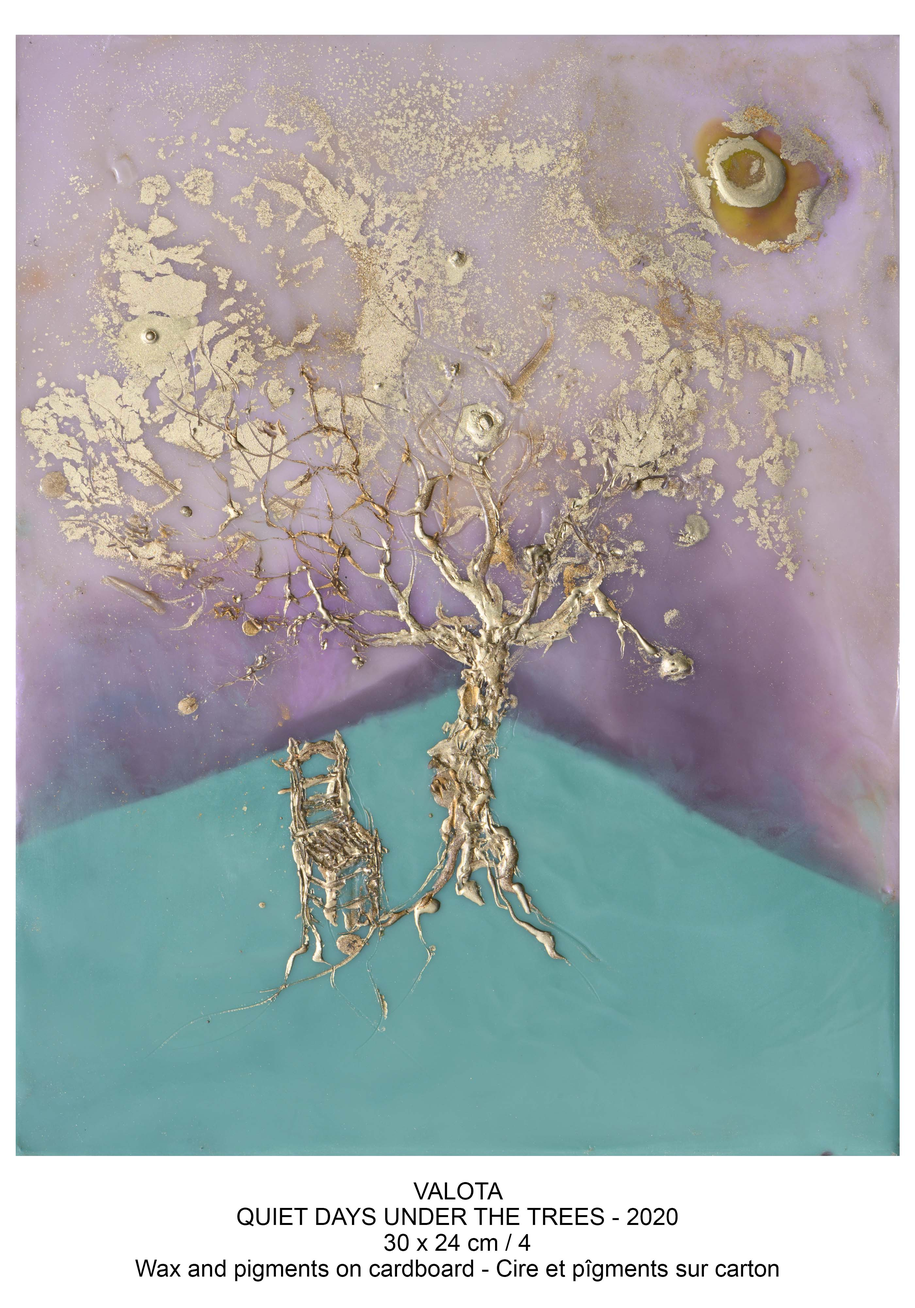
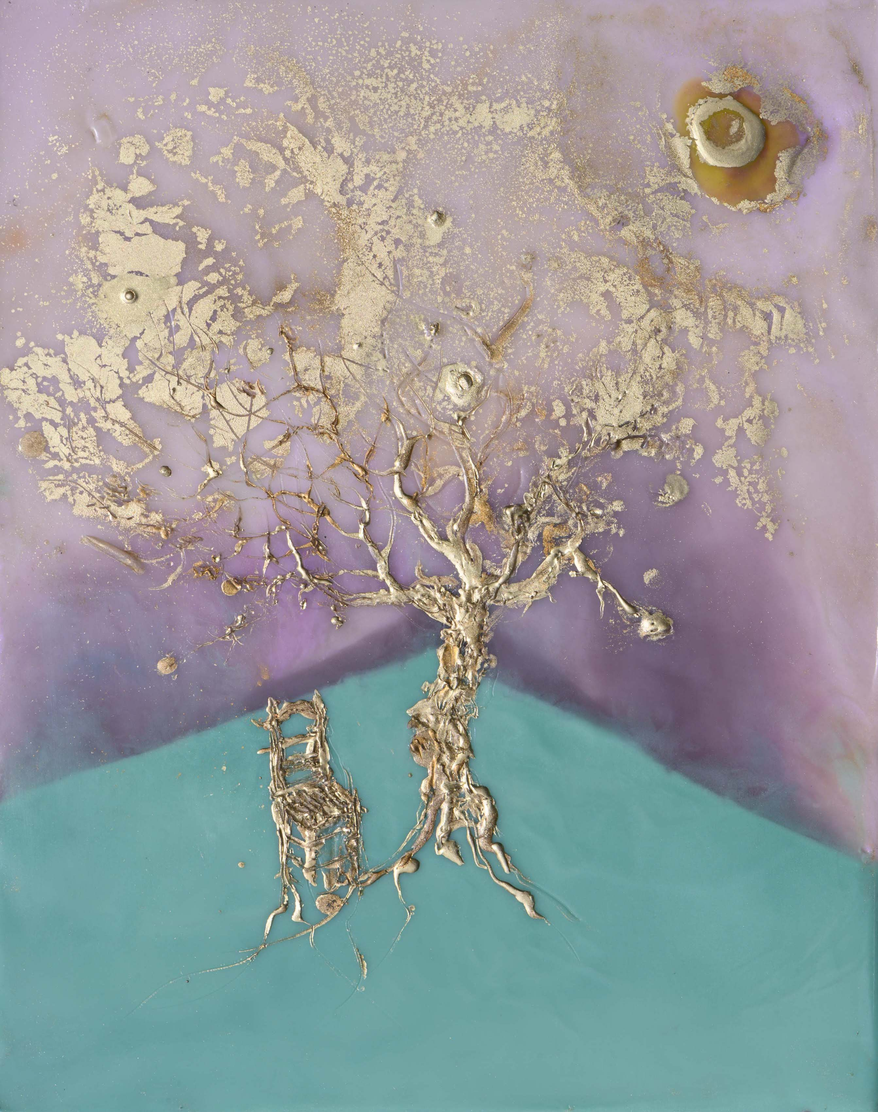
Update from Forestry.io ELISABETH GIVRE created static/forestry/galerie-gaia-isthme-canopee10-55cmx46cm-2020.jpg ELISABETH GIVRE updated src/pages/artists/isthme.md ELISABETH GIVRE created static/forestry/galerie-gaia-valota-queit-days-under-the-trees-1-30x24.jpg ELISABETH GIVRE updated src/pages/ar

diff --git a/src/pages/artists/isthme.md b/src/pages/artists/isthme.md
@@ -36,6 +36,15 @@ biography: "La démarche d'Isthme est toute d'équilibre entre improvisation sen
   et grâce comme vertige ou torpeur. » \nIsthme"
 exhibitions: []
 works:
+- title: Allongée dans l'herbe 10
+  image: "/forestry/galerie-gaia-isthme-canopee10-55cmx46cm-2020.jpg"
+  dimensions:
+    height: 55
+    width: 46
+    depth: 0
+  description: "2020"
+  price: 750
+  contextual: true
 - title: Green Rhapsody 7
   image: "/forestry/galerie-gaia-isthme-green-rhapsody-7-76x56cm-2015.jpg"
   technique: 'Collage '

diff --git a/src/pages/artists/valota.md b/src/pages/artists/valota.md
@@ -99,6 +99,16 @@ exhibitions:
   start: "40615"
   end: "270615"
 works:
+- title: Quiet days under the trees 4
+  image: "/forestry/galerie-gaia-valota-queit-days-under-the-trees-1-30x24.jpg"
+  technique: Cire et pigments sur bois
+  dimensions:
+    height: 30
+    width: 24
+    depth: 0
+  description: ''
+  price: 0
+  contextual: true
 - title: Arche de Noé 2
   image: "/forestry/galerie-gaia-valota-arche-de-noe-2-30-5x39x21.jpg"
   technique: 'Céramique '
